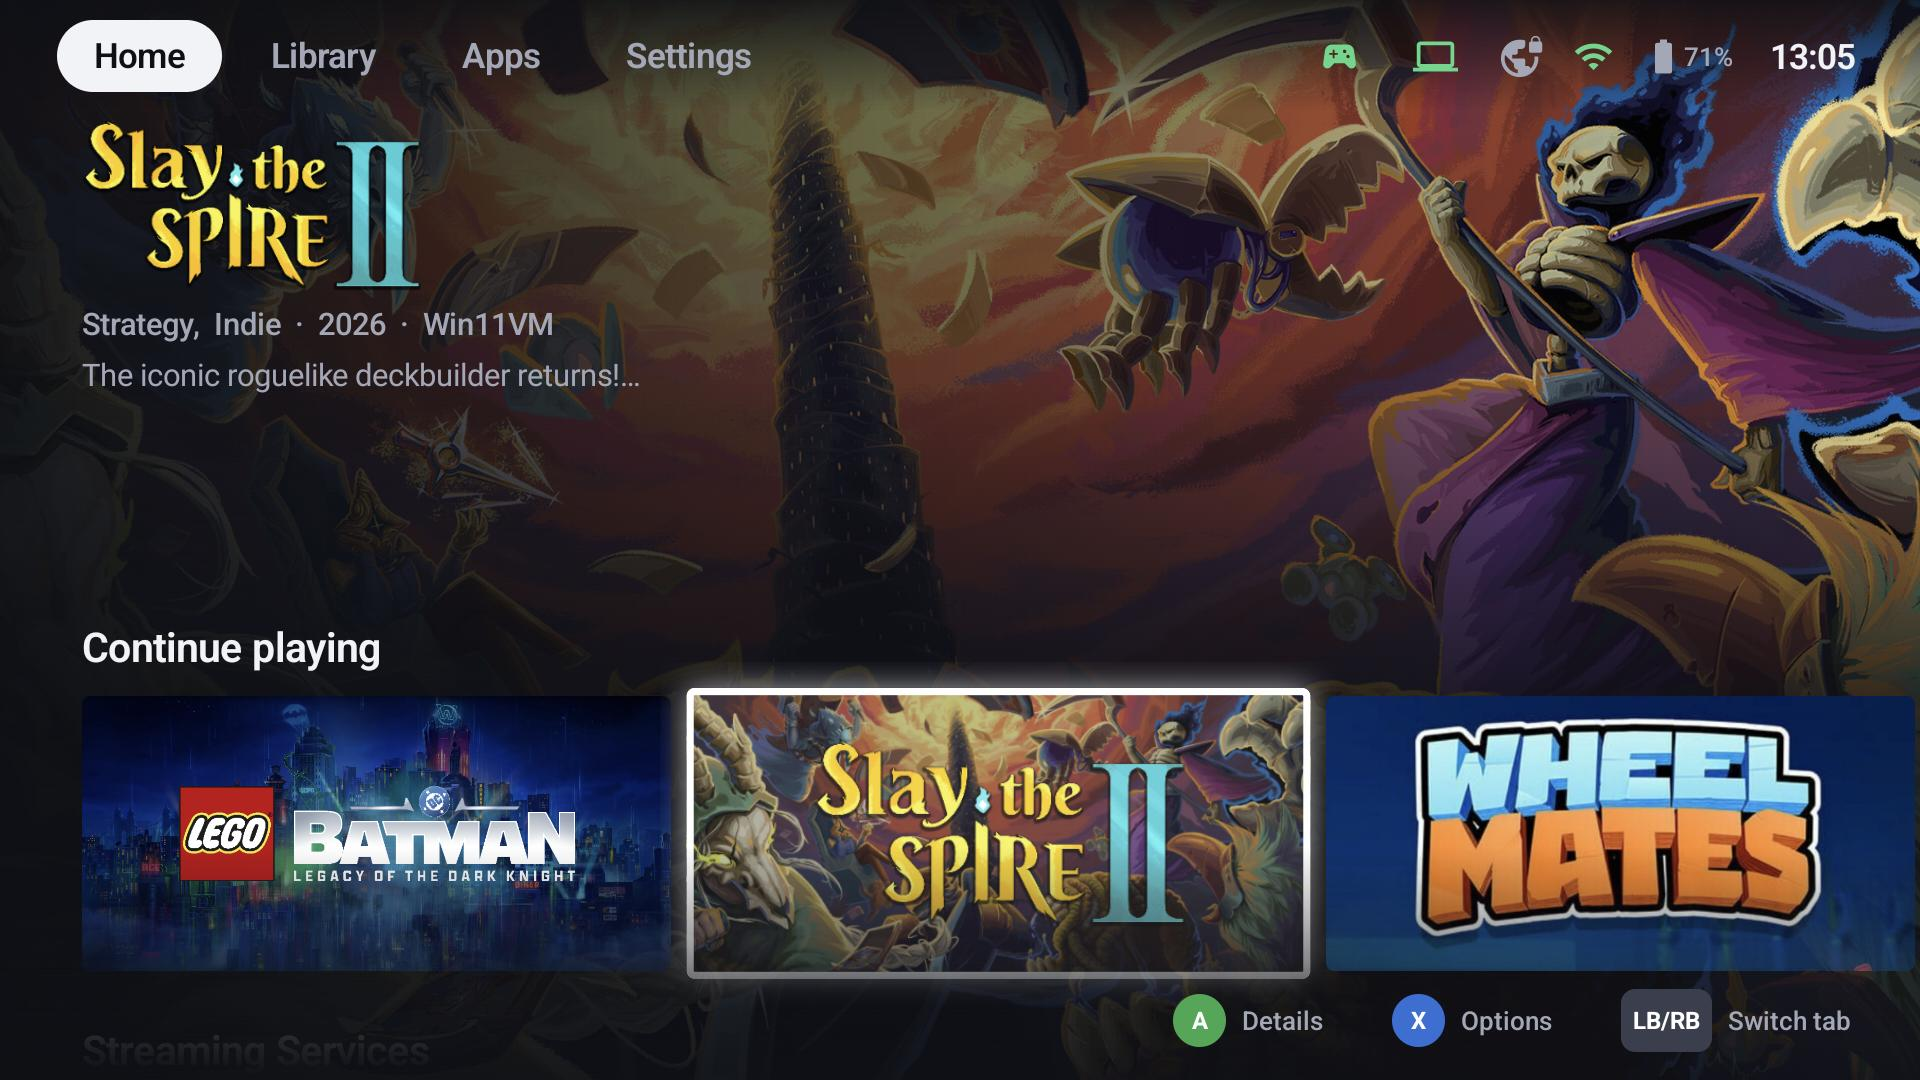
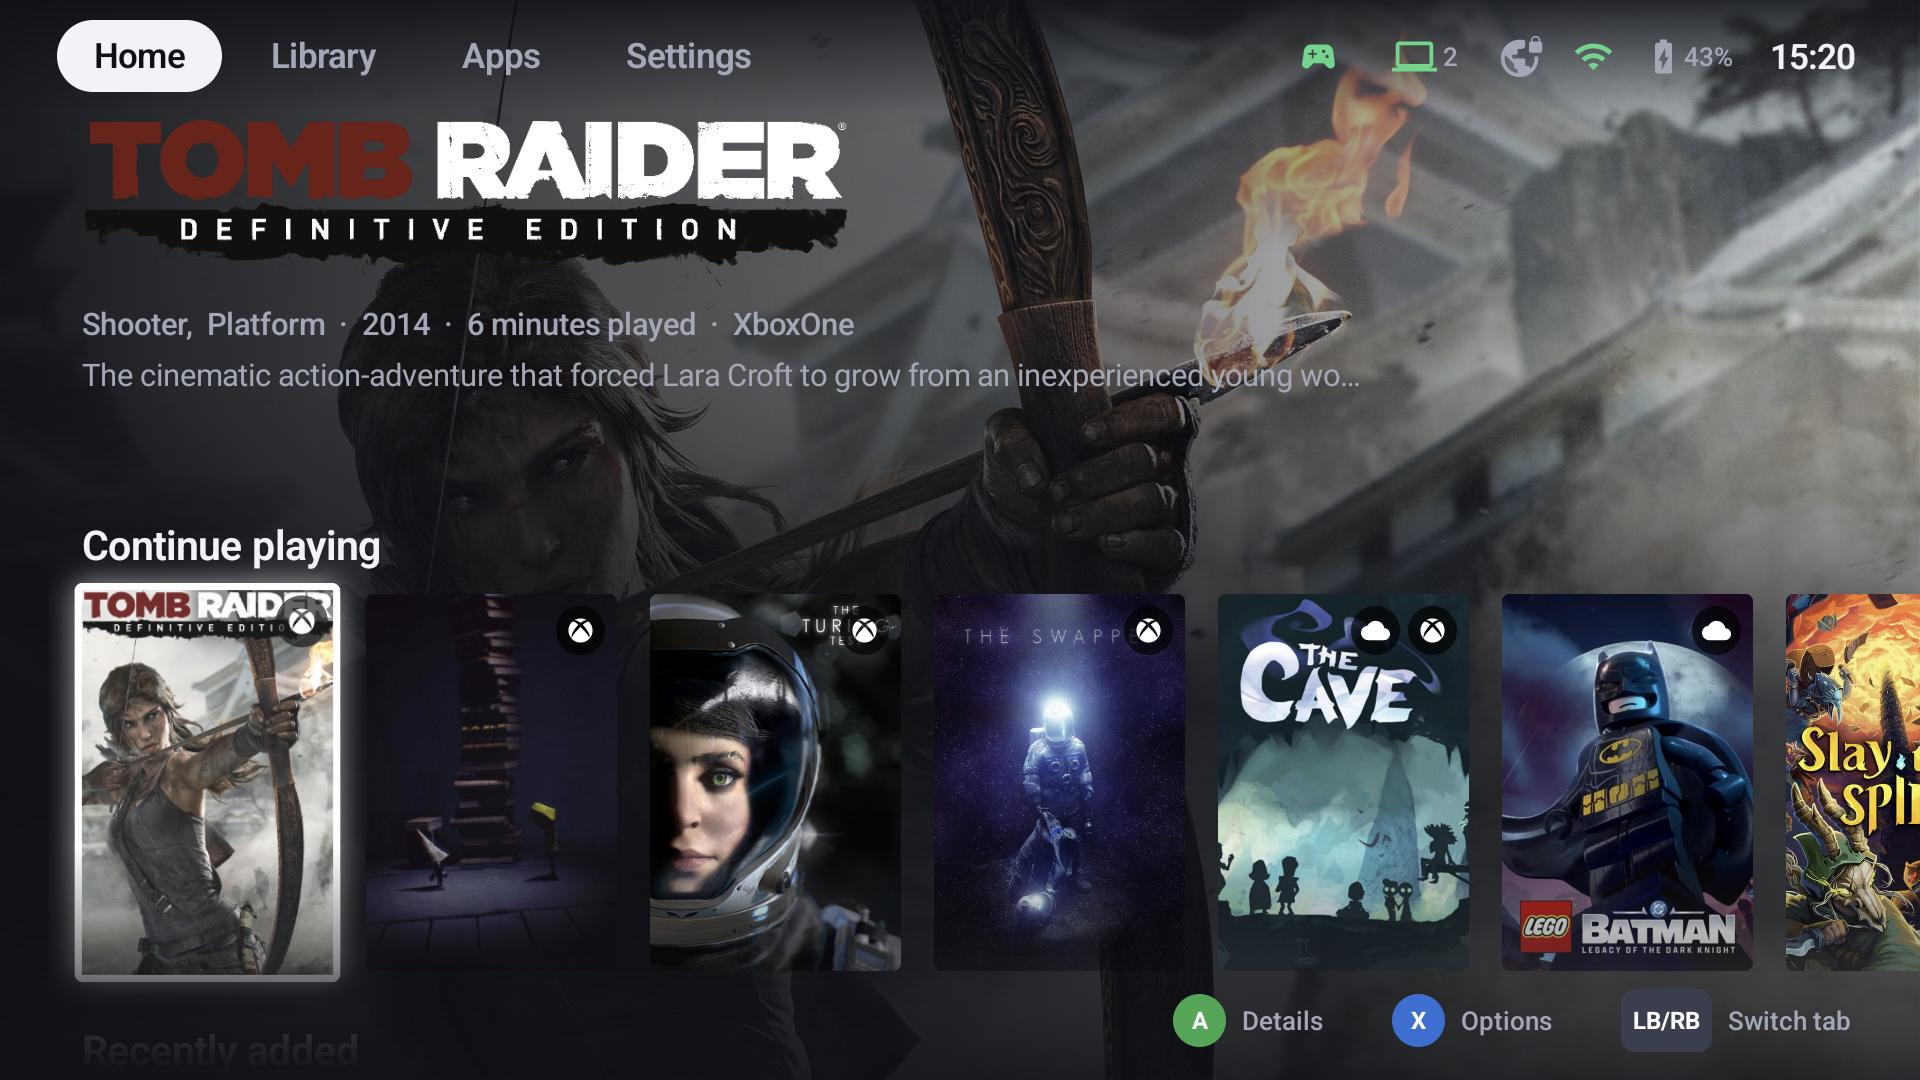
Docs screenshots for streaming hosts, profiles, Xbox and the wizard
New: hosts list with PCs and the Xbox, profile editor tabs, Xbox stream
settings, quick menu hosts, dashboard app, start tab and library with badges,
wizard welcome and hosts step. The wizard's PC entries use the monitor icon
and its welcome names the Xbox.

diff --git a/shared/src/commonMain/kotlin/io/github/thecodingdad/gamelodge/ui/screens/wizard/WizardConnectSteps.kt b/shared/src/commonMain/kotlin/io/github/thecodingdad/gamelodge/ui/screens/wizard/WizardConnectSteps.kt
@@ -1,5 +1,6 @@
 package io.github.thecodingdad.gamelodge.ui.screens.wizard
 
+import androidx.compose.material.icons.filled.Monitor
 import androidx.compose.foundation.background
 import androidx.compose.foundation.layout.Arrangement
 import androidx.compose.foundation.layout.Column
@@ -211,7 +212,7 @@ private fun HostEntry(host: HostState, settings: LauncherSettings, initialFocus:
         val online = host.status == HostStatus.ONLINE
         if (host.paired) {
             WizardStatusRow(
-                host.name, stringResource(Res.string.wizard_hosts_paired, host.address.orEmpty()), done = true, icon = Icons.Filled.Computer,
+                host.name, stringResource(Res.string.wizard_hosts_paired, host.address.orEmpty()), done = true, icon = Icons.Filled.Monitor,
             )
         } else {
             WizardStatusRow(
@@ -220,7 +221,7 @@ private fun HostEntry(host: HostState, settings: LauncherSettings, initialFocus:
                     stringResource(if (online) Res.string.host_status_online else Res.string.host_status_offline),
                     host.address,
                 ).joinToString(" · "),
-                done = false, icon = Icons.Filled.Computer,
+                done = false, icon = Icons.Filled.Monitor,
                 action = if (online) stringResource(Res.string.host_pair) else null,
                 onClick = if (online) onPair else null,
                 initialFocus = initialFocus,

diff --git a/docs/xbox.md b/docs/xbox.md
@@ -66,12 +66,16 @@ are not there yet.
 
 ### The console's dashboard
 
+![The dashboard app](assets/screenshots/xbox-dashboard.jpg)
+
 Every added console also appears as the app **Xbox Dashboard** in the Apps tab. It streams the
 console's home screen – to change its settings or install a game from afar. A game left running on the
 console stays there, minimized. In this stream **Guide** is the console's Xbox button; **hold Start** for the
 quick menu, which also ends the stream (**Quit** ends only the stream, not the console).
 
 ## Stream settings
+
+![Xbox stream settings](assets/screenshots/xbox-stream-settings.jpg)
 
 In the [stream profiles](profiles.md), tab **Xbox** – like the PC settings, the active profile counts, and
 **Start with…** picks another one for a single launch:
